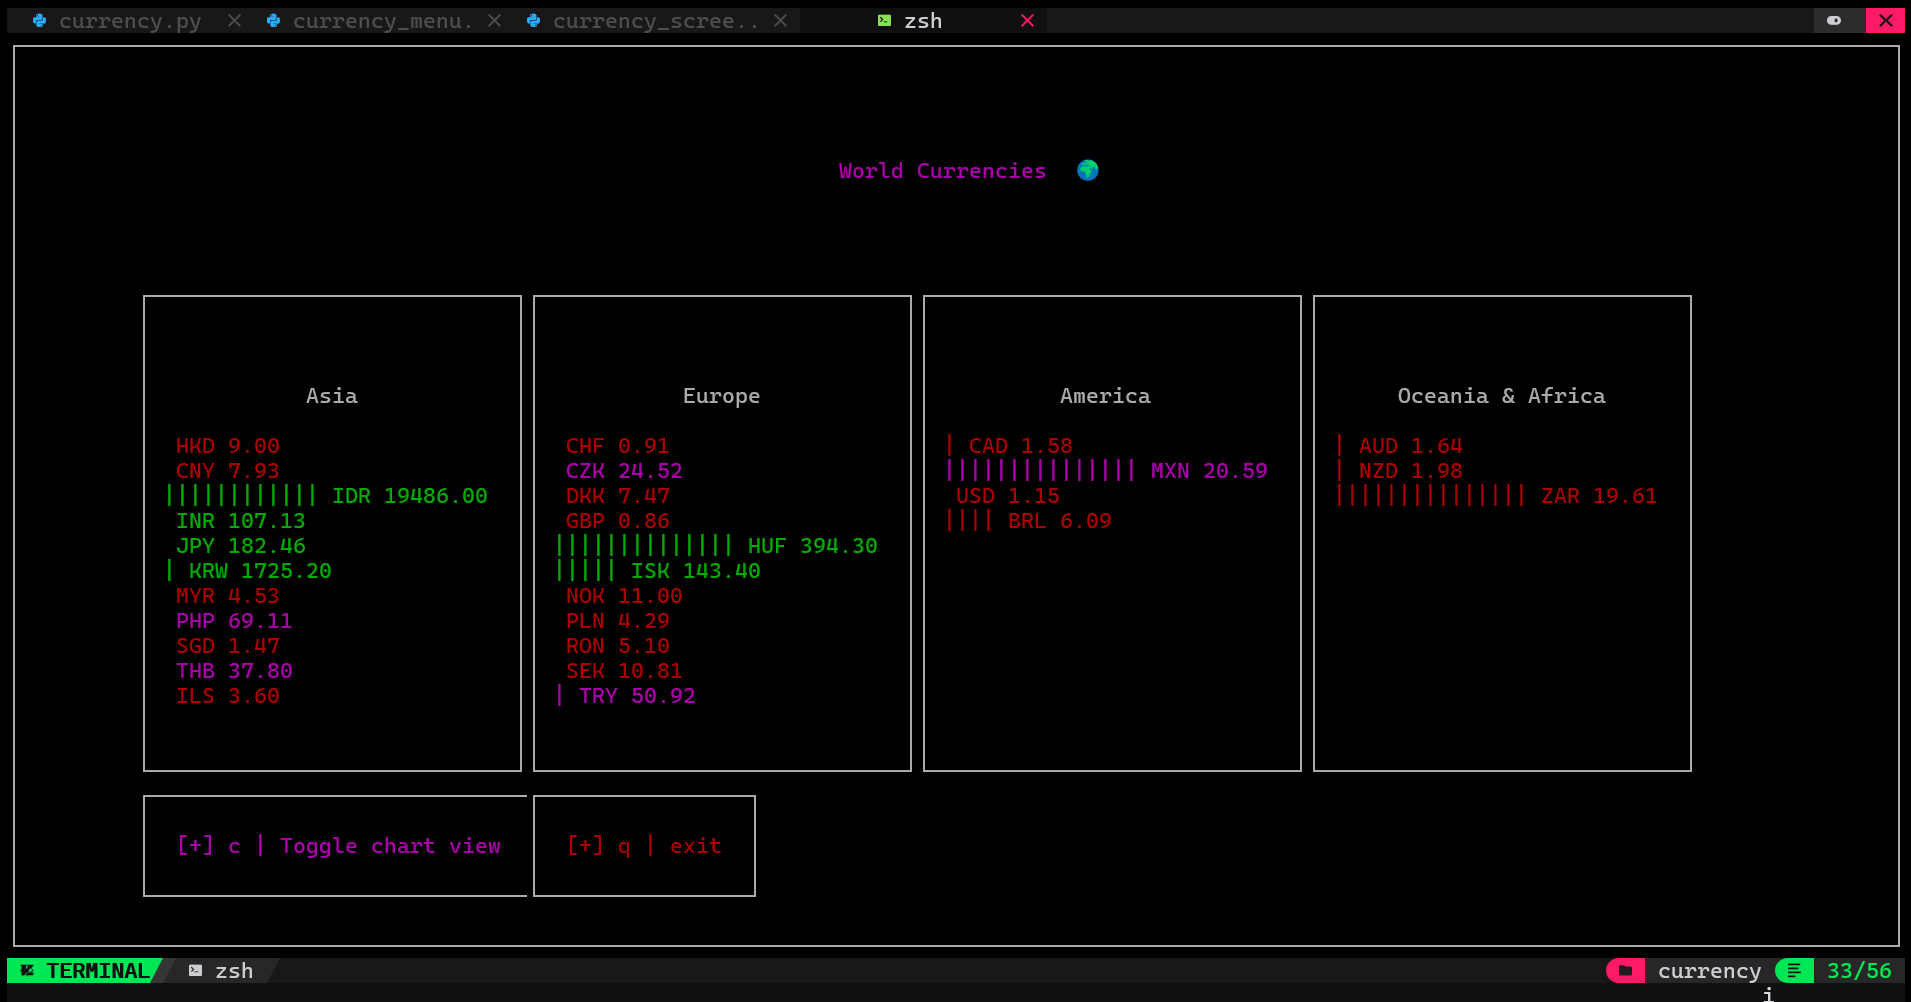
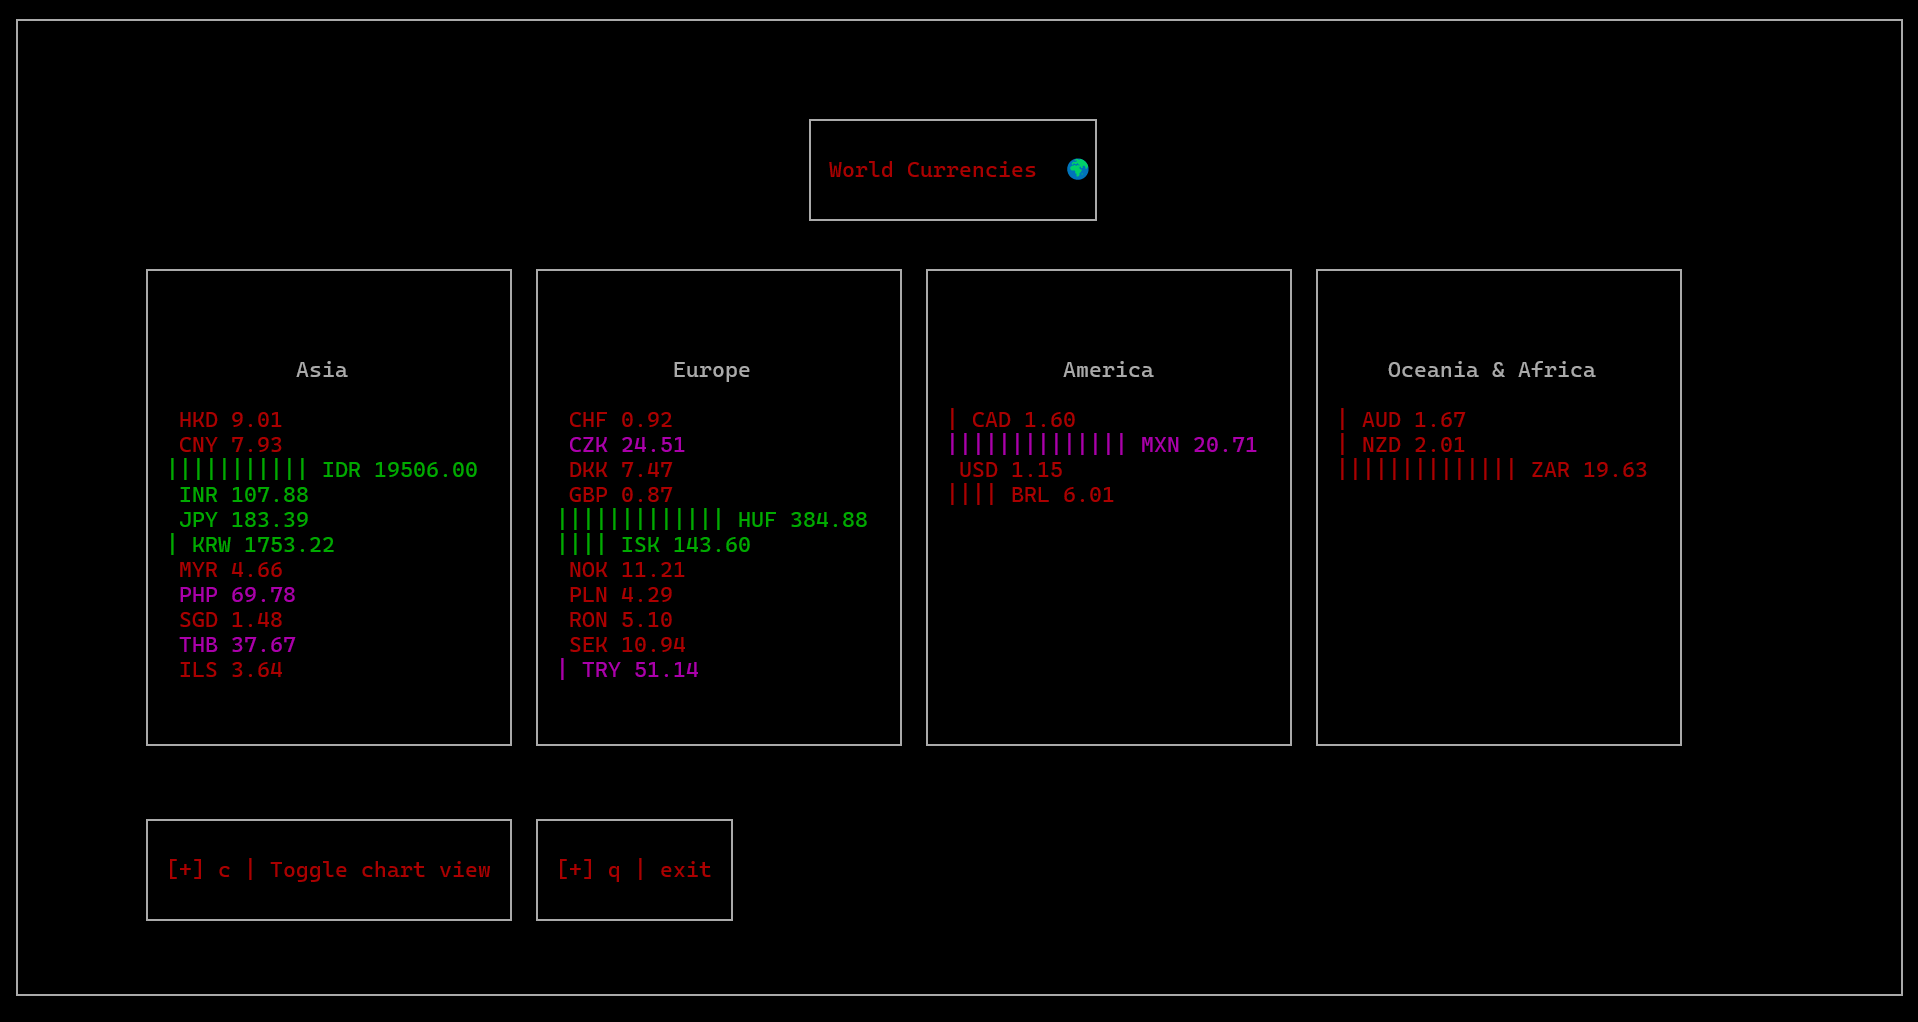
REFACTOR: to a object oriented aproach and added d to change currency feature

diff --git a/src/currency.py b/src/currency.py
@@ -1,145 +1,145 @@
-
 import curses
 from curses import wrapper
-from currency_screen import Currencyscr 
+import requests
+from currency_screen import Currencyscr
 from currency_menu import Menu
 from config import Config
-import requests
 
-config = Config()
+class CurrencyApp:
+    def __init__(self):
+        self.config = Config()
+        self.base_url = "https://api.frankfurter.app/latest?base=USD"
+        self.base_dollar = True
+        self.colors = []
+        self.currencies_data = None
+        self.screens = []
+        self.menus = {}
+        self.chart_mode = False
+        
+    def fetch_currencies(self, base_url):
+        try:
+            res = requests.get(base_url)
+            res.raise_for_status()
+            data = res.json()
+            rates = data["rates"]
 
-def get_Currencies():
-    try:
-        res = requests.get("https://api.frankfurter.app/latest")
-        res.raise_for_status()
-        data = res.json()
-        rates = data["rates"] 
+            continents = self.config.get_continents()
+            result = {}
+            for continent, currency_map in continents.items():
+                result[continent] = [
+                    [f"{name}: {rates[code]:.2f}", f"{code}", rates[code]]
+                    for name, code in currency_map.items()
+                    if code in rates
+                ]
+            return result
+        except Exception:
+            return None
 
-        continents = config.get_continents()
+    def get_colors(self):
+        curses.init_pair(1, curses.COLOR_MAGENTA, curses.COLOR_BLACK)
+        curses.init_pair(2, curses.COLOR_GREEN, curses.COLOR_BLACK)
+        curses.init_pair(3, curses.COLOR_RED, curses.COLOR_BLACK)
+        
+        magenta = curses.color_pair(1)
+        green = curses.color_pair(2)
+        red = curses.color_pair(3)
+        
+        return [red, magenta, green]
 
-        result  = {}
-        for continent, currency_map in continents.items():
-            result[continent] = [[f"{name}: {rates[code]:.2f}", f"{code}", rates[code]] for name, code in currency_map.items() if code in rates]
+    def set_tui(self):
+        self.colors = self.get_colors()
+        dollar = "https://api.frankfurter.app/latest?base=USD" 
+        euro = "https://api.frankfurter.app/latest" 
 
-        return result
+        self.base_url = dollar if self.base_dollar else euro
+        self.currencies_data = self.fetch_currencies(self.base_url)
+        
+        if self.currencies_data is None:
+            return False
 
-    except Exception:
-        return None
+        self.screens = [
+            Currencyscr(self.currencies_data['asia'], "Asia", self.colors),
+            Currencyscr(self.currencies_data['europe'], "Europe", self.colors),
+            Currencyscr(self.currencies_data['america'], "America", self.colors),
+            Currencyscr(self.currencies_data['oceania_africa'], "Oceania & Africa", self.colors)
+        ]
 
+        self.menus['title'] = Menu("[+] World Currencies  🌍", self.colors)
+        self.menus['toggle_base'] = Menu("[+] d > To Toggle base $ | €", self.colors)
+        self.menus['toggle_chart'] = Menu("[+] c > Toggle chart view", self.colors)
+        self.menus['exit'] = Menu("[+] q > exit", self.colors)
+        
+        return True
 
-def draw_error(color, stdscr):
-    import sys
-    stdscr.erase()
-    stdscr.box()
-    stdscr.noutrefresh() # Refresh background first to avoid overwriting menus
-    
-    height, width = stdscr.getmaxyx()
-    error_message = "We've had an issue getting the data :("
-    exit_message = "Press q to leave"
-    
-    error_menu = Menu(error_message, color) 
-    exit_menu = Menu(exit_message, color) 
-
-    # Use the Menu's calculated ncols for perfect centering
-    error_menu.make_menu_window(height // 2 - 2, (width - error_menu.ncols) // 2) 
-    exit_menu.make_menu_window(height - int(height * 0.3), 10)
-    
-    curses.doupdate()
-    while stdscr.getch() != ord('q'):
-        pass
-    sys.exit()
-
-def get_colors():
-    # colors
-    curses.init_pair(1, curses.COLOR_MAGENTA, curses.COLOR_BLACK) 
-    curses.init_pair(2, curses.COLOR_GREEN, curses.COLOR_BLACK) 
-    curses.init_pair(3, curses.COLOR_RED, curses.COLOR_BLACK) 
-    MAGENTA = curses.color_pair(1)
-    GREEN  = curses.color_pair(2)
-    RED = curses.color_pair(3)
-    
-    return [RED, MAGENTA, GREEN]
-
-def main(stdscr):
-
-    colors = get_colors() 
-    currencies_per_continent = get_Currencies()
-
-    if currencies_per_continent is None:
-       draw_error(colors, stdscr) 
-       return
-
-    curses.curs_set(0)  
-    
-    asia_scr = Currencyscr(
-            currencies_per_continent['asia'], 
-            "Asia", 
-            colors
-            ) 
-    europe_scr = Currencyscr(
-            currencies_per_continent['europe'], 
-            "Europe", 
-            colors
-            ) 
-    america_scr = Currencyscr(
-        currencies_per_continent['america'] , 
-            "America", 
-            colors
-            )
-    ocenia_and_africa_scr = Currencyscr(
-            currencies_per_continent['oceania_africa'], 
-            "Oceania & Africa", 
-            colors 
-            ) 
-
-    
-    # If dynamic updates are added later.
-    stdscr.timeout(-1)
-    title = "World Currencies  🌍"
-    title_menu = Menu(title, colors)
-    toggle_chart_menu = Menu("[+] c | Toggle chart view", colors) 
-    exit_menu = Menu("[+] q | exit", colors) 
-
-    def draw_all(isChartMode):
-
-        #Main Screen
+    def draw_error(self, stdscr):
+        import sys
         stdscr.erase()
         stdscr.box()
-        
-        height, width = stdscr.getmaxyx()
-
-        screens_height = height // 2
-        screens_width = width // 5 
-        screens_y = width // 14 # will begin at y ~ 10 on my terminal
-        
         stdscr.noutrefresh()
 
-        asia_scr.make_screen(isChartMode, screens_height, screens_width , screens_y, screens_y * 1)
-        europe_scr.make_screen(isChartMode, screens_height, screens_width, screens_y, screens_y * 4)
-        america_scr.make_screen(isChartMode, screens_height, screens_width, screens_y, screens_y * 7)
-        ocenia_and_africa_scr.make_screen(isChartMode, screens_height, screens_width, screens_y, screens_y * 10)
+        height, width = stdscr.getmaxyx()
+        error_menu = Menu("We've had an issue getting the data :(", self.colors)
+        exit_menu = Menu("Press q to leave", self.colors)
 
-        title_menu_y, title_menu_x = screens_height - int(0.8 * screens_height) , (width - title_menu.ncols) // 2
-
-        if title_menu_y > 0 and title_menu_x > 0:
-            title_menu.make_menu_window(title_menu_y, title_menu_x) 
-            toggle_chart_menu.make_menu_window(screens_height + int(0.6 * screens_height), 10)  
-            exit_menu.make_menu_window(screens_height + int(0.6 * screens_height), 40)
+        error_menu.make_menu_window(height // 2 - 2, (width - error_menu.ncols) // 2)
+        exit_menu.make_menu_window(height - int(height * 0.3), 10)
 
         curses.doupdate()
+        while stdscr.getch() != ord('q'):
+            pass
+        sys.exit()
 
-    chartMode = False 
+    def draw_menus(self, height, width, screens_height):
+        title_menu = self.menus['title']
+        title_y = screens_height - int(0.8 * screens_height)
+        title_x = (width - title_menu.ncols) // 2
 
-    while True:
-        draw_all(chartMode)
-        # Check for user input (q to quit)
-        key = stdscr.getch()
-        if key == ord('q'):
-            break
-        elif key == ord('c'):
-            chartMode = not chartMode
-        elif key == curses.KEY_RESIZE:
-            draw_all(chartMode)
+        if title_y > 0 and title_x > 0:
+            title_menu.make_menu_window(title_y, title_x)
+            self.menus['toggle_chart'].make_menu_window(screens_height + int(0.6 * screens_height), 10)
+            self.menus['toggle_base'].make_menu_window(screens_height + int(0.6 * screens_height), 40)
+            self.menus['exit'].make_menu_window(screens_height + int(0.6 * screens_height), 75)
+
+    def draw_all(self, stdscr):
+        stdscr.erase()
+        stdscr.box()
+
+        height, width = stdscr.getmaxyx()
+        screens_height = height // 2
+        screens_width = width // 5
+        screens_y = width // 14
+
+        stdscr.noutrefresh()
+
+        # Render continent screens at fixed intervals
+        for i, screen in enumerate(self.screens):
+            screen.make_screen(self.chart_mode, screens_height, screens_width, screens_y, screens_y * (1 + i * 3))
+
+        self.draw_menus(height, width, screens_height)
+        curses.doupdate()
+
+    def run(self, stdscr):
+        curses.curs_set(0)
+        stdscr.timeout(-1)
+
+        if not self.set_tui():
+            self.draw_error(stdscr)
+
+        while True:
+            self.draw_all(stdscr)
+            key = stdscr.getch()
+            
+            if key == ord('q'):
+                break
+            elif key == ord('c'):
+                self.chart_mode = not self.chart_mode
+            elif key == ord('d'):
+                self.base_dollar = not self.base_dollar
+                wrapper(self.run)
+                break
+            elif key == curses.KEY_RESIZE:
+                self.draw_all(stdscr)
 
 if __name__ == '__main__':
-    wrapper(main)
+    app = CurrencyApp()
+    wrapper(app.run)

diff --git a/src/currency_screen.py b/src/currency_screen.py
@@ -27,14 +27,14 @@ class Currencyscr:
 
     def _decide_color(self, value):
         low = 20
-        medium = 100
+        medium = 50 
         # RED MAGENTA GREEN 
         if value < low:
-            return self.colors[0]
+            return self.colors[2]
         elif value < medium:
            return self.colors[1]
         else:
-            return self.colors[2]
+            return self.colors[0]
 
 
     def write_currency(self):
